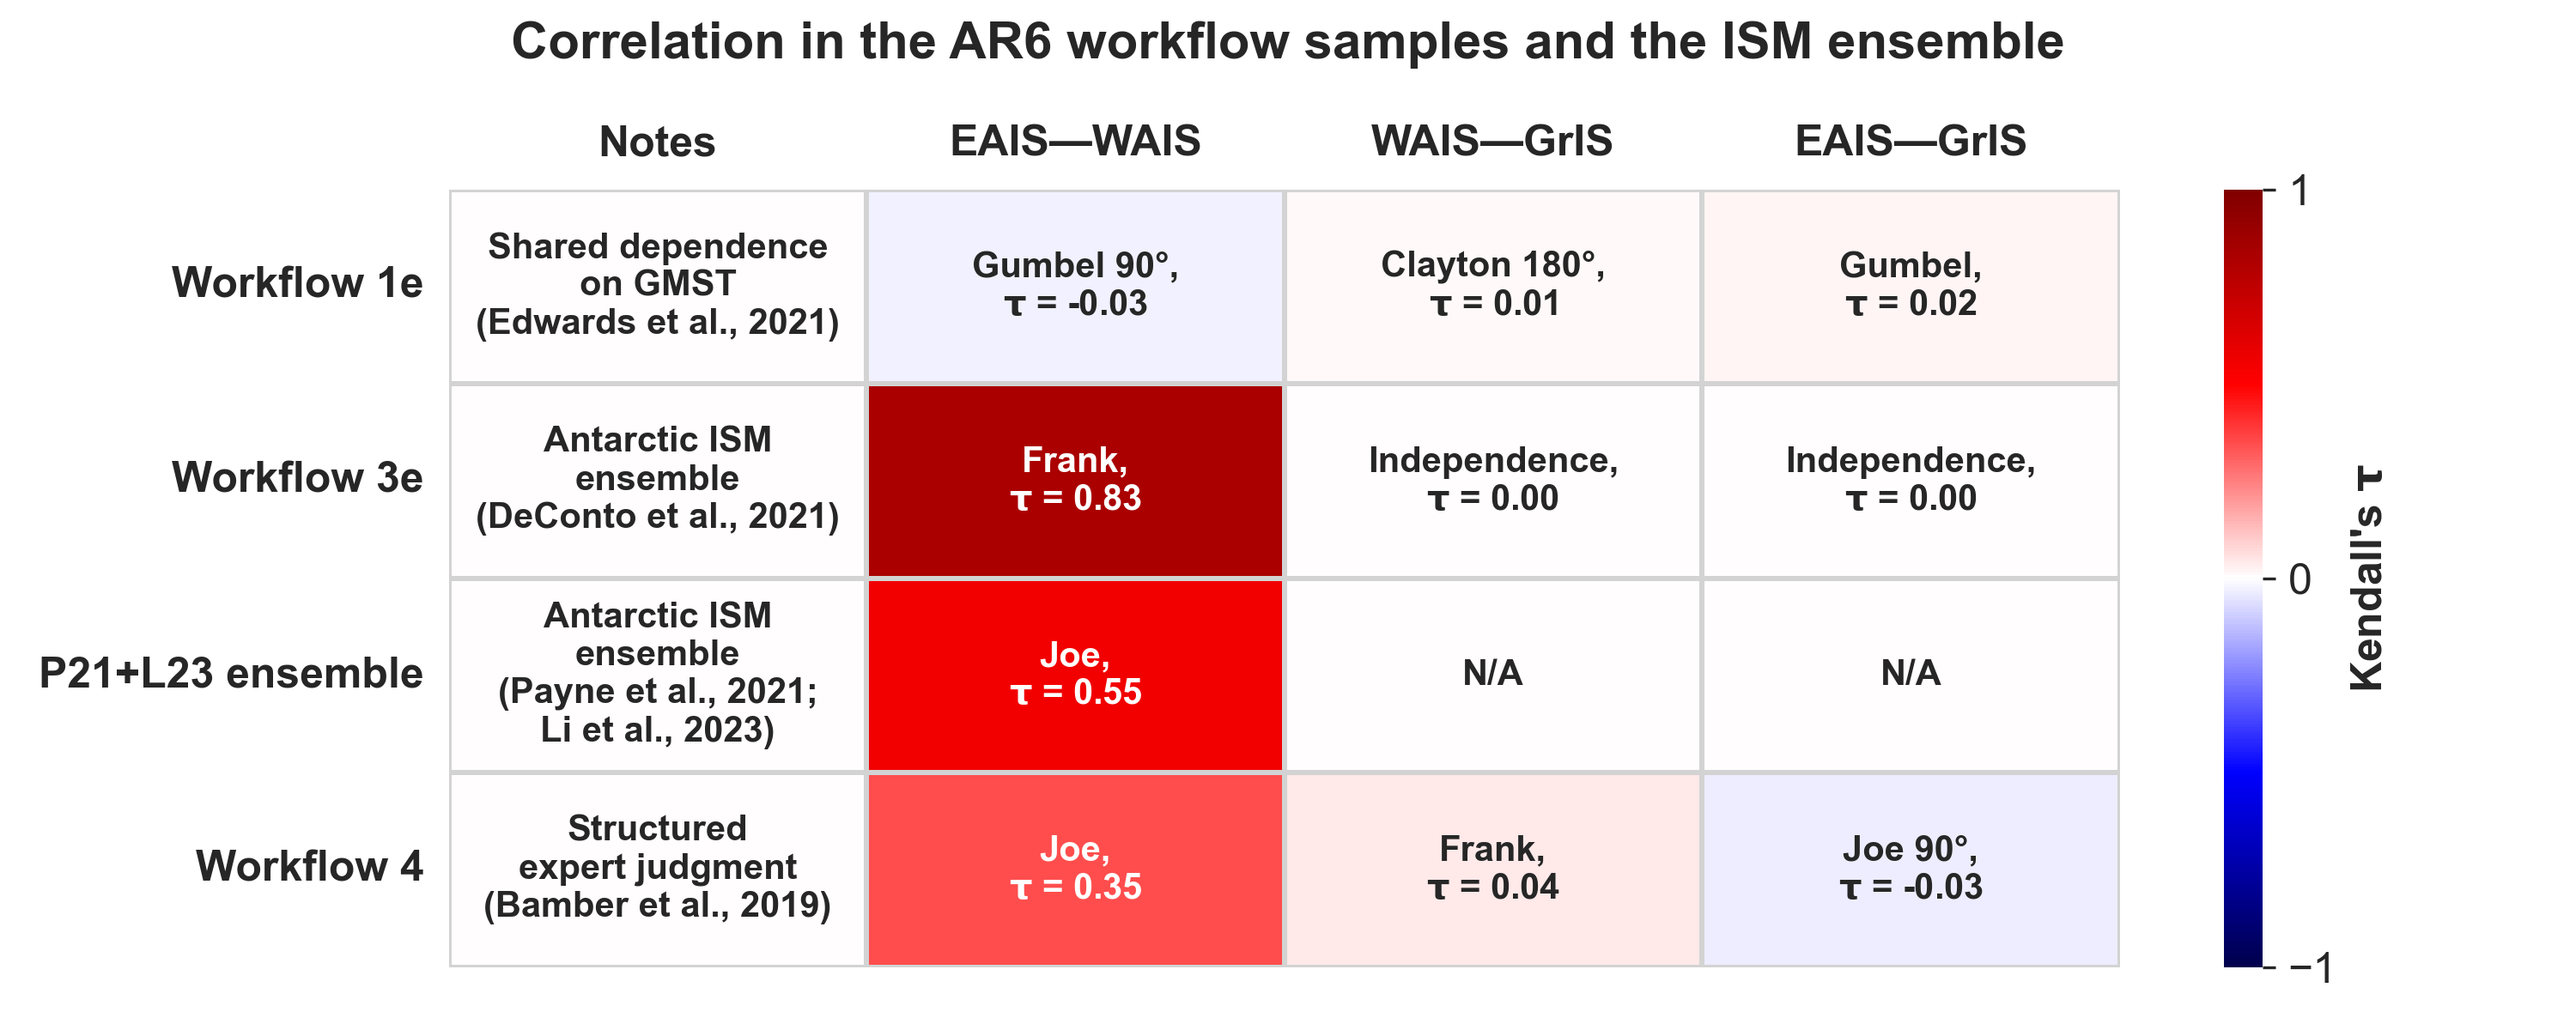
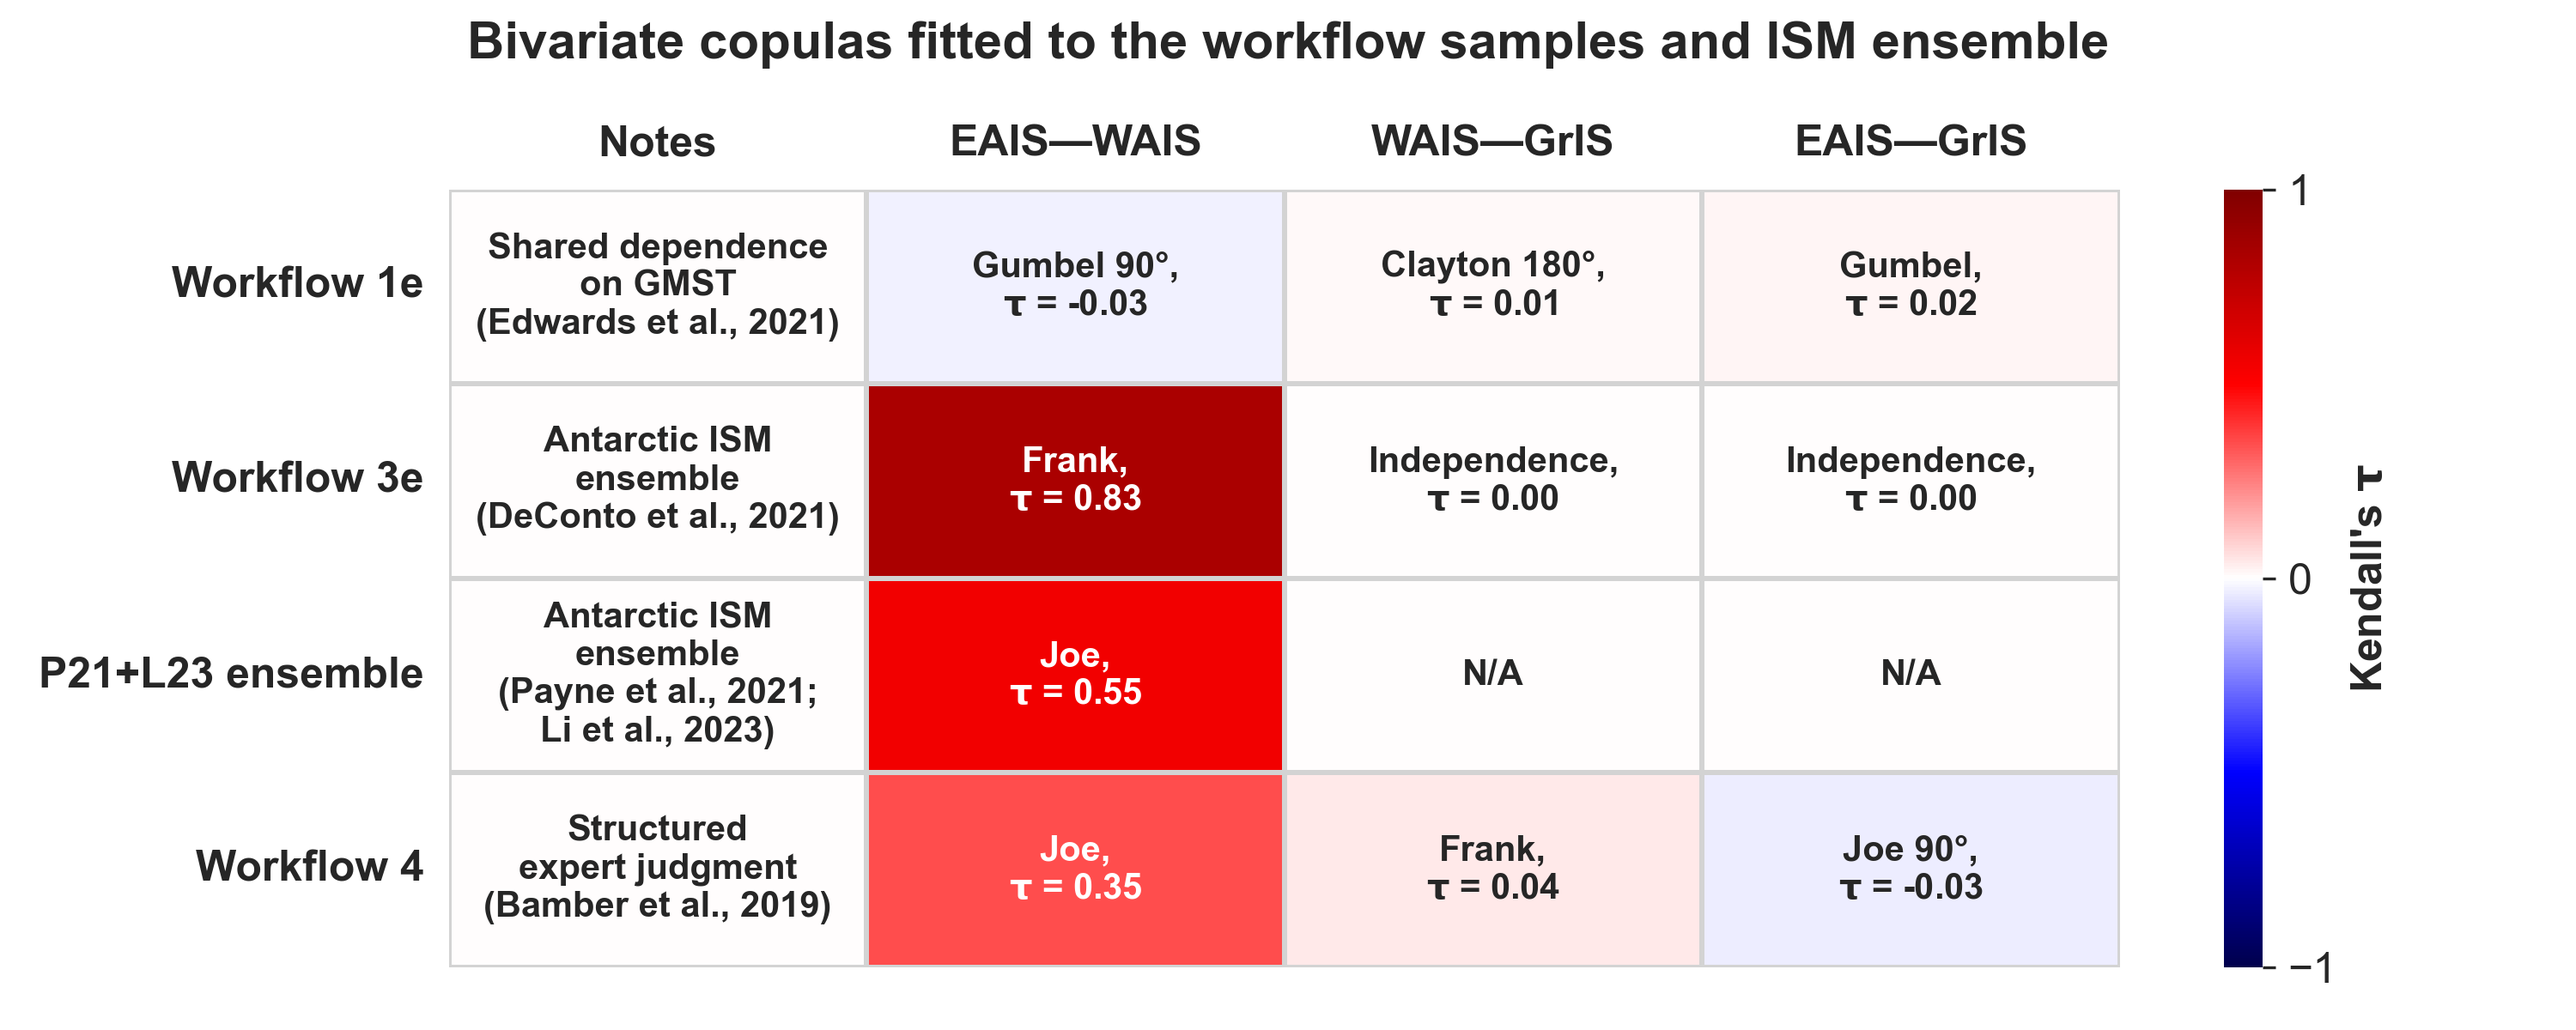
d23b.py fig_dependence_table(): modify title.

Changed region(s): [[0.186, 0.0, 0.837, 0.0617]]

diff --git a/d23b.py b/d23b.py
@@ -868,7 +868,7 @@ def fig_dependence_table(cop_workflows=('wf_1e', 'wf_3e', 'P21+L23', 'wf_4')):
     cbar.set_ticks([-1., 0., 1.])
     cbar.set_label(f'Kendall\'s {TAU_BOLD}')
     if cop_workflows == ('wf_1e', 'wf_3e', 'P21+L23', 'wf_4'):
-        fig.suptitle('Correlation in the AR6 workflow samples and the ISM ensemble')
+        fig.suptitle('Bivariate copulas fitted to the workflow samples and ISM ensemble')
     return fig, ax
 
 
